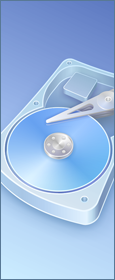
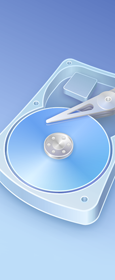
1764: Better default size in "Create VDI" wizard when called from "Create VM" wizard.
These changes related both to NewVM and NewHD wizards.
1. Labels sizeHint calculation based on minimum QLabel width. In case of there is no minimum QLabel width predefined – sizeHint calculation leads to wrong dialog height (dialog could be very tall).
2. Own QTextEdit implementation with sizeHint based on contained text.
3. The color of the dialog’s picture background is set to the color of the picture’s last pixel. So it is possible to vertically resize dialog & picture simultaneously.

Changed region(s): [[0.0, 0.0, 1.0, 1.0]]

diff --git a/src/VBox/Frontends/VirtualBox/ui/VBoxNewVMWzd.ui.h b/src/VBox/Frontends/VirtualBox/ui/VBoxNewVMWzd.ui.h
@@ -70,6 +70,13 @@ void VBoxNewVMWzd::init()
      *  ----------------------------------------------------------------------
      */
 
+    /* setup the pictures colors */
+    VBoxGlobal::fillPixmapBackGrd (pmWelcome);
+    VBoxGlobal::fillPixmapBackGrd (pmNameAndOS);
+    VBoxGlobal::fillPixmapBackGrd (pmMemory);
+    VBoxGlobal::fillPixmapBackGrd (pmHDD);
+    VBoxGlobal::fillPixmapBackGrd (pmSummary);
+
     /* Name and OS page */
 
     leName->setValidator (new QRegExpValidator (QRegExp (".+" ), this));
@@ -88,10 +95,6 @@ void VBoxNewVMWzd::init()
     const uint MaxRAM = sysProps.GetMaxGuestRAM();
 
     leRAM->setValidator (new QIntValidator (MinRAM, MaxRAM, this));
-
-    /* filter out Enter keys in order to direct them to the default dlg button */
-    QIKeyFilter *ef = new QIKeyFilter (this, Key_Enter);
-    ef->watchOn (teSummary);
 
     wvalMemory = new QIWidgetValidator (pageMemory, this);
     connect (wvalMemory, SIGNAL (validityChanged (const QIWidgetValidator *)),
@@ -115,6 +118,18 @@ void VBoxNewVMWzd::init()
              this, SLOT (enableNext (const QIWidgetValidator *)));
     connect (wvalHDD, SIGNAL (isValidRequested (QIWidgetValidator *)),
              this, SLOT (revalidate (QIWidgetValidator *)));
+
+    /* Summary page */
+
+    teSummary = new VBoxTextView (pageSummary);
+    teSummary->setSizePolicy (QSizePolicy::Minimum, QSizePolicy::Minimum);
+    teSummary->setFrameShape (QTextEdit::NoFrame);
+    teSummary->setReadOnly (TRUE);
+    summaryLayout->insertWidget (1, teSummary);
+
+    /* filter out Enter keys in order to direct them to the default dlg button */
+    QIKeyFilter *ef = new QIKeyFilter (this, Key_Enter);
+    ef->watchOn (teSummary);
 
     /*
      *  set initial values
@@ -163,14 +178,41 @@ void VBoxNewVMWzd::init()
 
     /* the finish button on the Summary page is always enabled */
     setFinishEnabled (pageSummary, true);
-  
-    resize (sizeHint());
+
+    /* setup minimum width for the sizeHint to be calculated correctly */
+    int wid = widthSpacer->minimumSize().width();
+    txWelcome->setMinimumWidth (wid);
+    txNameAndOS->setMinimumWidth (wid);
+    textLabel1->setMinimumWidth (wid);
+    txRAMBest2->setMinimumWidth (wid);
+    textLabel1_3->setMinimumWidth (wid);
+    txVDIBest->setMinimumWidth (wid);
+    txSummaryHdr->setMinimumWidth (wid);
+    txSummaryFtr->setMinimumWidth (wid);
 }
 
 
 void VBoxNewVMWzd::destroy()
 {
     ensureNewHardDiskDeleted();
+}
+
+void VBoxNewVMWzd::showEvent (QShowEvent *e)
+{
+    QDialog::showEvent (e);
+
+    /* one may think that QWidget::polish() is the right place to do things
+     * below, but apparently, by the time when QWidget::polish() is called,
+     * the widget style & layout are not fully done, at least the minimum
+     * size hint is not properly calculated. Since this is sometimes necessary,
+     * we provide our own "polish" implementation. */
+
+    layout()->activate();
+
+    /* resize to the miminum possible size */
+    resize (minimumSize());
+
+    VBoxGlobal::centerWidget (this, parentWidget());
 }
 
 void VBoxNewVMWzd::enableNext (const QIWidgetValidator *wval)
@@ -243,6 +285,8 @@ void VBoxNewVMWzd::showPage (QWidget *page)
         mediaCombo->setFocus();
     else if (page == pageSummary)
         teSummary->setFocus();
+
+    page->layout()->activate();
 }
 
 void VBoxNewVMWzd::accept()

diff --git a/src/VBox/Frontends/VirtualBox/ui/VBoxNewHDWzd.ui.h b/src/VBox/Frontends/VirtualBox/ui/VBoxNewHDWzd.ui.h
@@ -168,6 +168,12 @@ void VBoxNewHDWzd::init()
     /* setup connections and set validation for pages
      * ---------------------------------------------------------------------- */
 
+    /* setup the pictures background color */
+    VBoxGlobal::fillPixmapBackGrd (pmWelcome);
+    VBoxGlobal::fillPixmapBackGrd (pmType);
+    VBoxGlobal::fillPixmapBackGrd (pmNameAndSize);
+    VBoxGlobal::fillPixmapBackGrd (pmSummary);
+
     /* Image type page */
 
     /* Name and Size page */
@@ -208,6 +214,12 @@ void VBoxNewHDWzd::init()
              wvalNameAndSize, SLOT (revalidate()));
 
     /* Summary page */
+
+    teSummary = new VBoxTextView (pageSummary);
+    teSummary->setSizePolicy (QSizePolicy::Minimum, QSizePolicy::Minimum);
+    teSummary->setFrameShape (QTextEdit::NoFrame);
+    teSummary->setReadOnly (TRUE);
+    summaryLayout->insertWidget (1, teSummary);
 
     /* filter out Enter keys in order to direct them to the default dlg button */
     QIKeyFilter *ef = new QIKeyFilter (this, Key_Enter);
@@ -250,6 +262,34 @@ void VBoxNewHDWzd::init()
 
     /* the finish button on the Summary page is always enabled */
     setFinishEnabled (pageSummary, true);
+
+    /* setup minimum width for the sizeHint to be calculated correctly */
+    int wid = widthSpacer->minimumSize().width();
+    txWelcome->setMinimumWidth (wid);
+    textLabel1_2->setMinimumWidth (wid);
+    txNameComment->setMinimumWidth (wid);
+    txSizeComment->setMinimumWidth (wid);
+    txSummaryHdr->setMinimumWidth (wid);
+    txSummaryFtr->setMinimumWidth (wid);
+}
+
+
+void VBoxNewHDWzd::showEvent (QShowEvent *e)
+{
+    QDialog::showEvent (e);
+
+    /* one may think that QWidget::polish() is the right place to do things
+     * below, but apparently, by the time when QWidget::polish() is called,
+     * the widget style & layout are not fully done, at least the minimum
+     * size hint is not properly calculated. Since this is sometimes necessary,
+     * we provide our own "polish" implementation. */
+
+    layout()->activate();
+
+    /* resize to the miminum possible size */
+    resize (minimumSize());
+
+    VBoxGlobal::centerWidget (this, parentWidget());
 }
 
 
@@ -397,6 +437,8 @@ void VBoxNewHDWzd::showPage( QWidget *page )
     {
         teSummary->setFocus();
     }
+
+    page->layout()->activate();
 }
 
 

diff --git a/src/VBox/Frontends/VirtualBox/src/VBoxGlobal.cpp b/src/VBox/Frontends/VirtualBox/src/VBoxGlobal.cpp
@@ -33,6 +33,8 @@
 #include <qiconset.h>
 #include <qwidgetlist.h>
 #include <qfiledialog.h>
+#include <qimage.h>
+#include <qlabel.h>
 
 #include <qfileinfo.h>
 #include <qdir.h>
@@ -469,6 +471,28 @@ private:
 };
 
 #endif /* Q_WS_WIN */
+
+VBoxTextView::VBoxTextView (QWidget *aParent)
+    : QTextEdit (aParent)
+{
+}
+
+QSize VBoxTextView::sizeHint() const
+{
+    return minimumSizeHint();
+}
+
+QSize VBoxTextView::minimumSizeHint() const
+{
+    int wid = 0;
+    int hei = heightForWidth (wid);
+    return QSize (wid, hei);
+}
+
+void VBoxTextView::setText (const QString &aText)
+{
+    QTextEdit::setText (aText);
+}
 
 // VBoxGlobal
 ////////////////////////////////////////////////////////////////////////////////
@@ -1849,6 +1873,25 @@ private:
 
     QByteArray mData;
 };
+
+/**
+ *  Fills the QLabel picture background with the color of last
+ *  pixel in the pixmap.
+ */
+/* static */
+void VBoxGlobal::fillPixmapBackGrd (QLabel *aLabel)
+{
+    QPixmap *pix = aLabel->pixmap();
+    QImage img = pix->convertToImage();
+    QRgb rgbPixel = img.pixel (img.width() - 1, img.height() - 1);
+    int cRed = qRed (rgbPixel);
+    int cGreen = qGreen (rgbPixel);
+    int cBlue = qBlue (rgbPixel);
+    aLabel->setBackgroundColor (QColor (cRed, cGreen, cBlue));
+    aLabel->setFrameShadow (QFrame::Plain);
+    aLabel->setFrameShape (QFrame::Box);
+    aLabel->setPaletteForegroundColor (QColor (89,121,150));
+}
 
 static VBoxTranslator *sTranslator = 0;
 static QString sLoadedLangId = gVBoxBuiltInLangName;

diff --git a/src/VBox/Frontends/VirtualBox/include/VBoxGlobal.h b/src/VBox/Frontends/VirtualBox/include/VBoxGlobal.h
@@ -35,6 +35,7 @@
 #include <qthread.h>
 #include <qpopupmenu.h>
 #include <qtooltip.h>
+#include <qtextedit.h>
 
 #include <qptrvector.h>
 #include <qvaluevector.h>
@@ -43,6 +44,7 @@
 #include <qintdict.h>
 
 class QAction;
+class QLabel;
 
 // Auxiliary types
 ////////////////////////////////////////////////////////////////////////////////
@@ -131,6 +133,22 @@ public:
 
     const QUuid machineId;
     const QUuid snapshotId;
+};
+
+class VBoxTextView : public QTextEdit
+{
+Q_OBJECT
+
+public:
+
+    VBoxTextView (QWidget*);
+
+    QSize sizeHint() const;
+    QSize minimumSizeHint() const;
+
+public slots:
+
+    void setText (const QString &);
 };
 
 // VBoxGlobal
@@ -386,6 +404,8 @@ public:
     void cleanup();
 
     /* public static stuff */
+
+    static void fillPixmapBackGrd (QLabel *);
 
     static QString languageId();
     static void loadLanguage (const QString &aLangId = QString::null);
